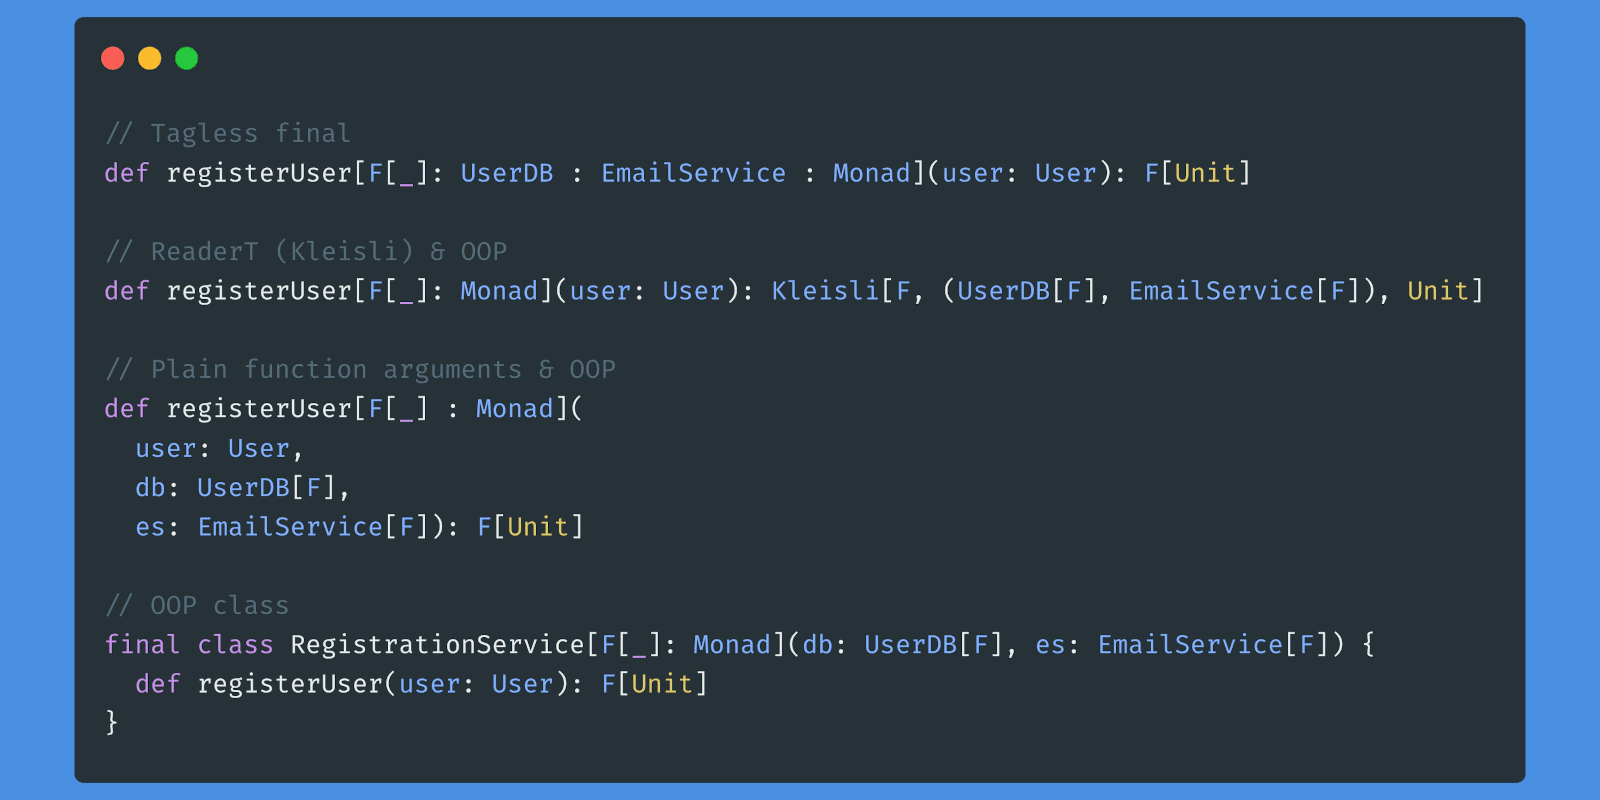
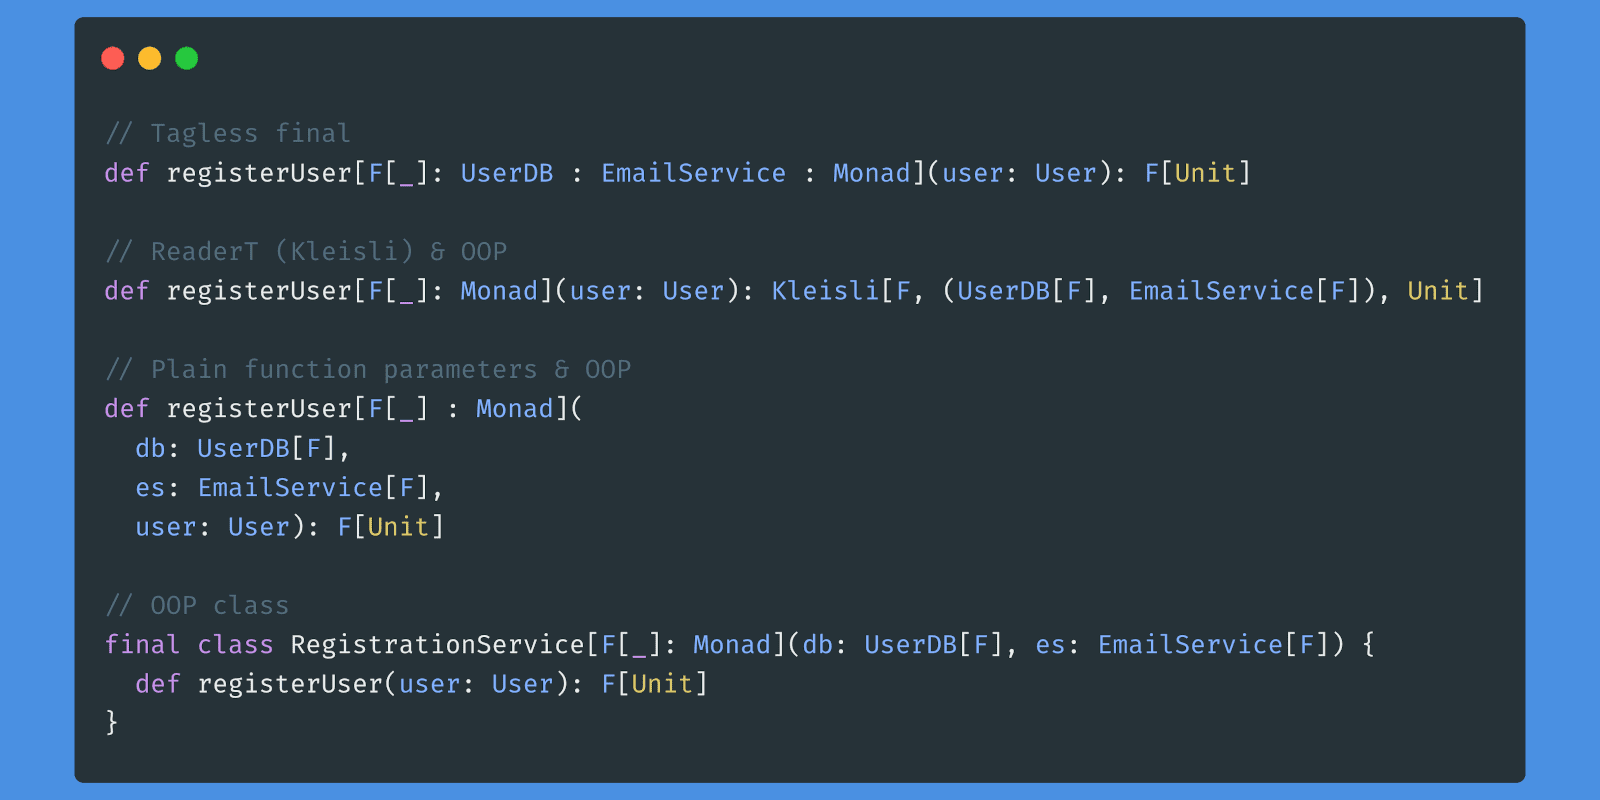
Fix tagless final snippet

Changed region(s): [[0.0938, 0.5312, 0.3438, 0.6875], [0.25, 0.4375, 0.4062, 0.4688]]

diff --git a/_snippets/2021-01-20-tagless-final-vs-oop.md b/_snippets/2021-01-20-tagless-final-vs-oop.md
@@ -21,11 +21,11 @@ def registerUser[F[_]: UserDB : EmailService : Monad](user: User): F[Unit]
 def registerUser[F[_]: Monad](
   user: User): Kleisli[F, (UserDB[F], EmailService[F]), Unit]
 
-// Plain function arguments & OOP
+// Plain function parameters & OOP
 def registerUser[F[_] : Monad](
-  user: User, 
   db: UserDB[F], 
-  es: EmailService[F]): F[Unit]
+  es: EmailService[F],
+  user: User): F[Unit]
 
 // OOP class
 final class RegistrationService[F[_]: Monad](
